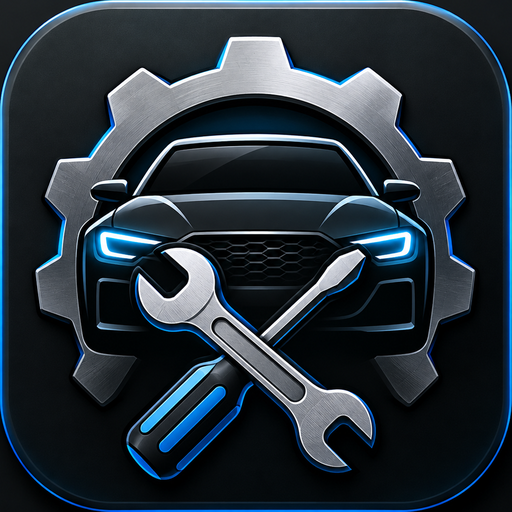
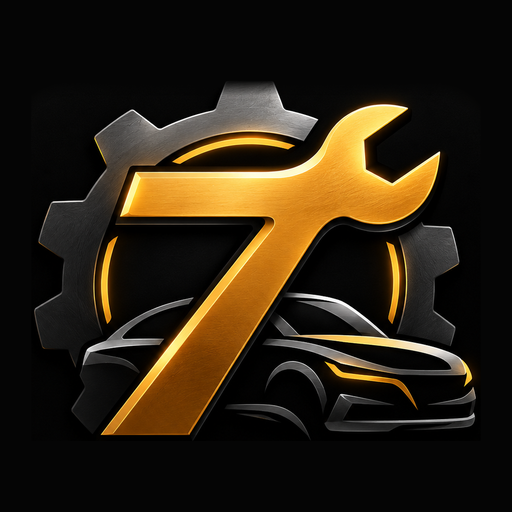
v1.1: logótipo novo (7 em chave + roda dentada + carro)
Ícone do Android, do Windows e logótipo dentro da app/recibos a partir
do logótipo enviado pelo Bernardo (só o símbolo, sem o texto, para se
ler em tamanho pequeno).

Claude-Session: https://claude.ai/code/session_01Lj2J2hwMtBnWhRVHPASRiB

diff --git a/www/index.html b/www/index.html
@@ -1211,6 +1211,7 @@ const CHANGELOG=[
  {v:'1.1',d:'2026-10-21',t:'Novo nome: 7Chaves',items:[
   'A app passa a chamar-se 7Chaves ("guardado a sete chaves", e a chave do mecânico)',
   'Os teus dados, a sincronização, as cópias de segurança e as atualizações continuam iguais: nada se perde com a mudança de nome',
+  'Logótipo novo: o 7 em forma de chave, com a roda dentada e o carro (ícone do telemóvel, do Windows, dentro da app e nos recibos)',
   'As cópias automáticas continuam na pasta Documentos/GaragePro do telemóvel e os ficheiros de cópia continuam a terminar em .garagepro'
  ]},
  {v:'1.0',d:'2026-10-20',t:'Mais rápida e mais segura',items:[
@@ -1409,7 +1410,7 @@ const normMat=s=>{const p=parseMat(s);return p&&p.m>=1&&p.m<=12&&p.y>=1900&&p.y<
 const fmtMat=s=>{const p=parseMat(s);return p?String(p.m).padStart(2,'0')+'/'+p.y:''};
 const plate=(v,cls='abs')=>{if(!v||!v.matricula)return'';const p=parseMat(v.dataMat);let yr='';if(p){const part={mes:String(p.m).padStart(2,'0'),ano:String(p.y%100).padStart(2,'0')};yr=`<span class="yr" title="Matrícula ${fmtMat(v.dataMat)}">${PLATE_ORDER.map(k=>`<b>${part[k]}</b>`).join('')}</span>`}return `<span class="plate ${cls}"><span class="eu">${STARS}<b>P</b></span><span class="n">${esc(v.matricula)}</span>${yr}</span>`};
 const fmtPlate=s=>{const r=String(s||'').toUpperCase().replace(/[^A-Z0-9]/g,'');return r.length===6?r.match(/../g).join('-'):String(s||'').trim().toUpperCase()};
[2 lines of base64/hex data omitted]
 const emptyBox=(ic,txt,extra='')=>`<div class="empty"><div class="eic">${I(ic)}</div><div>${txt}</div>${extra}</div>`;
 
 /* ================== ESTADO / BD LOCAL ================== */
